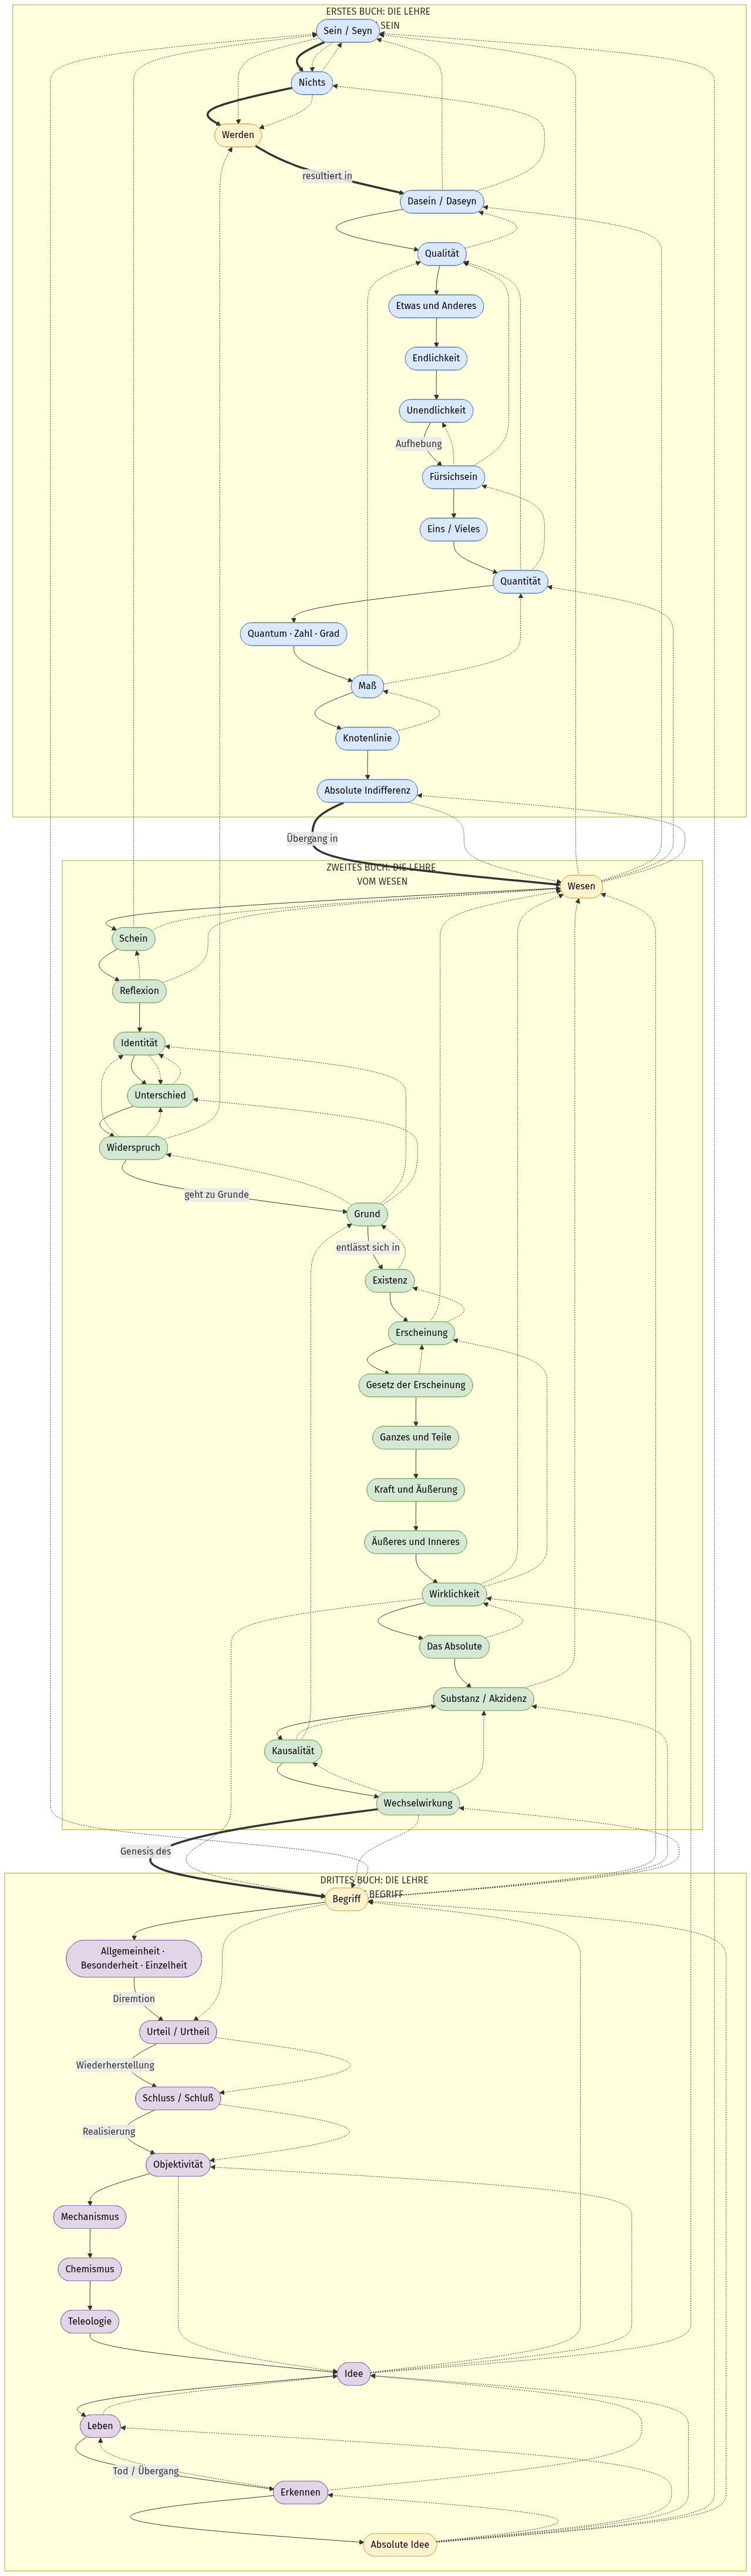
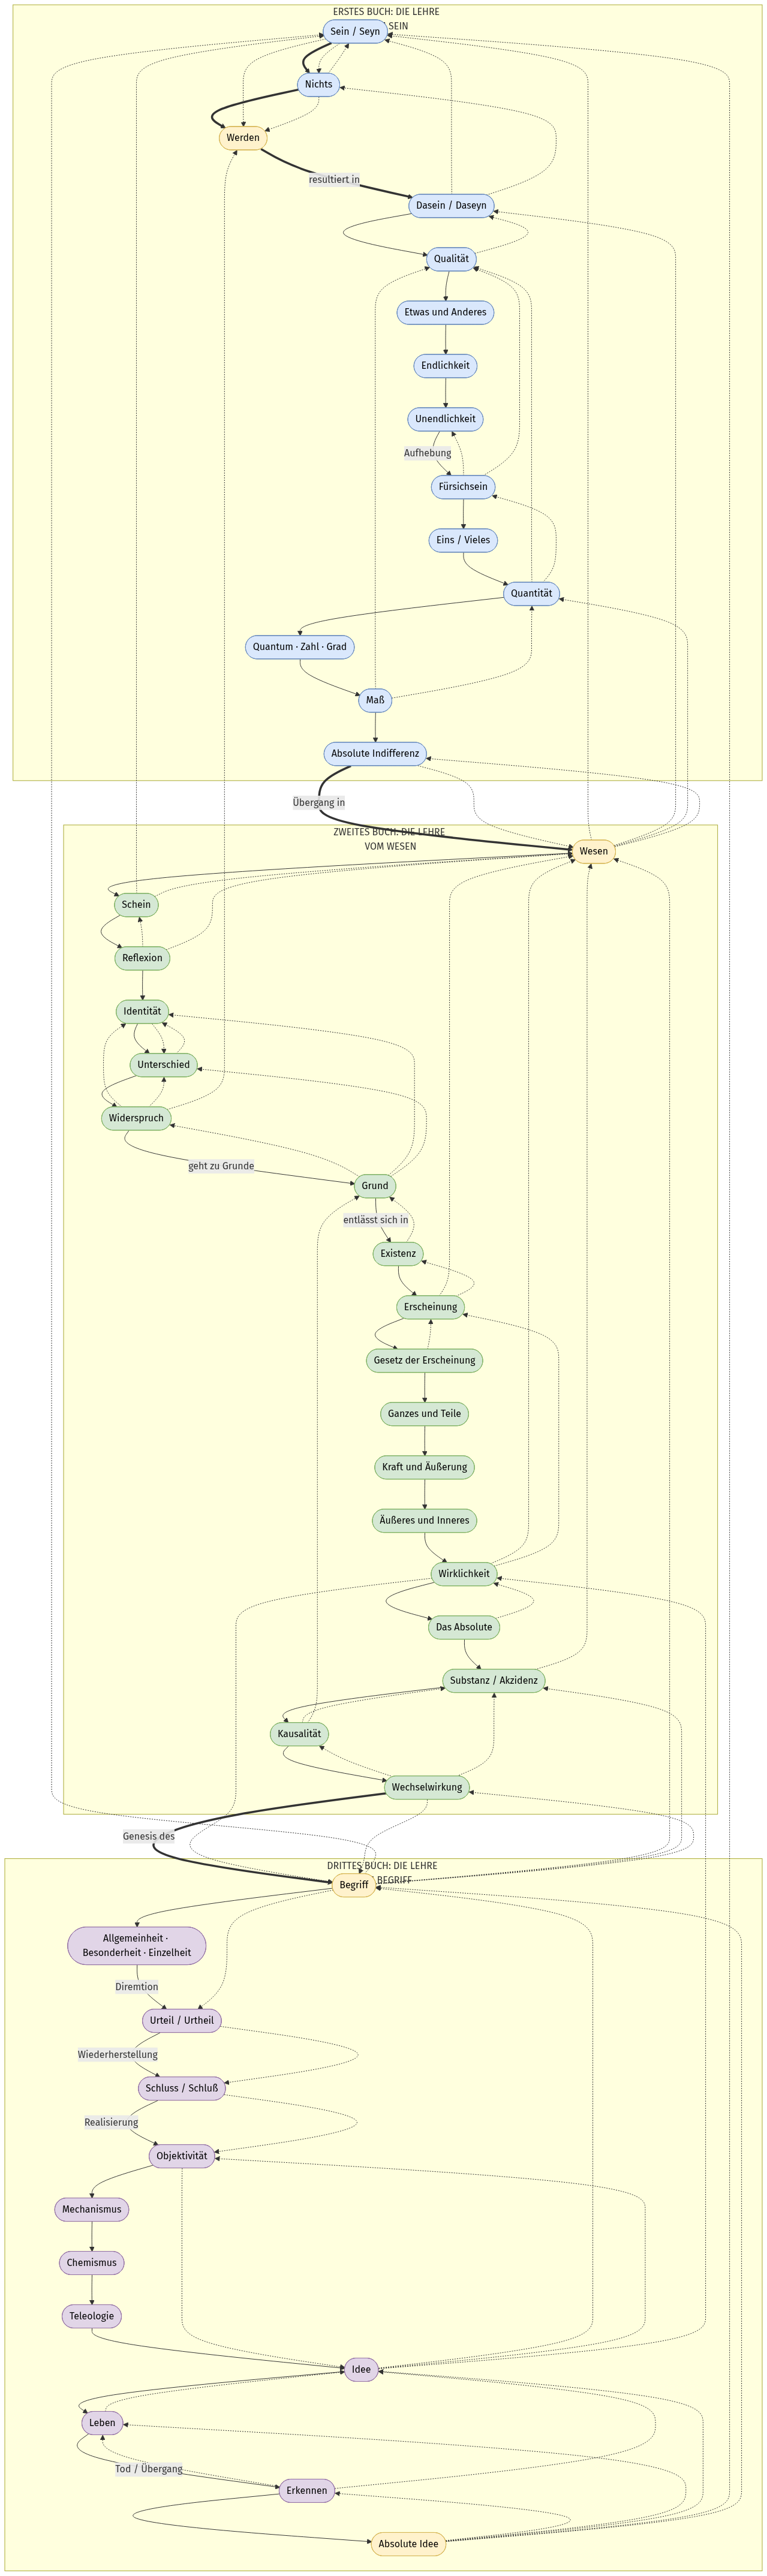
Korrektur: KNOTENLINIE eliminiert — ABSOLUTE INDIFFERENZ als eigenständiger Begriff, Knotenlinie/Maßloses in MASS integriert, Mermaid-Diagramm und PNG aktualisiert

diff --git a/data.js b/data.js
@@ -288,7 +288,7 @@ const hegelData = [
     "bookName": "Seinslogik",
     "position": "Dritter Abschnitt („Das Maß“).",
     "quote": "„Das Maß ist die qualitative Quantität; es ist das unmittelbare Qualitative der Quantität, die Einheit von Qualität und Quantität, in der die Quantität selbst qualitativ bestimmt ist.“",
-    "definition": "Das Maß ist die Wahrheit von Qualität und Quantität — die Quantität, die\nzugleich qualitativ bedeutsam ist. Jedes Ding hat ein Maß: innerhalb gewisser Grenzen kann die\nQuantität sich ändern, ohne die Qualität zu verändern; wird die Grenze überschritten, schlägt\ndie Qualität um (Knotenlinie).",
+    "definition": "Das Maß ist die Wahrheit von Qualität und Quantität — die Quantität, die\nzugleich qualitativ bedeutsam ist. Jedes Ding hat ein Maß: innerhalb gewisser Grenzen kann die\nQuantität sich ändern, ohne die Qualität zu verändern; wird die Grenze überschritten, schlägt\ndie Qualität um. Diese Umschlagspunkte bilden eine *Knotenlinie von Maßverhältnissen*\n(z.B. Wasser → Eis → Dampf). Das absolute Hinausgehen über das Maß ist das *Maßlose*,\nin dem das Maß zugrunde geht und der Übergang zum Wesen sich vorbereitet.",
     "crossRefs": [
       {
         "target": "Qualität / Quantität",
@@ -296,25 +296,25 @@ const hegelData = [
         "targetId": "s12"
       },
       {
+        "target": "Absolute Indifferenz",
+        "text": "Der letzte Umschlagspunkt vor dem Übergang ins Wesen.",
+        "targetId": "s13"
+      },
+      {
         "target": "Wesen",
         "text": "Das Maßlose und der Umschlag der Maße führen zum *Werden des Wesens* — über",
         "targetId": "w01"
-      },
-      {
-        "target": "Knotenlinie",
-        "text": "Die Reihe qualitativer Sprünge bei quantitativer Kontinuität.",
-        "targetId": "s13"
       }
     ]
   },
   {
     "id": "s13",
-    "name": "KNOTENLINIE / MASSLOSES / INDIFFERENZ",
+    "name": "ABSOLUTE INDIFFERENZ",
     "book": "seinslogik",
     "bookName": "Seinslogik",
-    "position": "Dritter Abschnitt, Zweites und Drittes Kapitel.",
-    "quote": "",
-    "definition": "Die *Knotenlinie* ist die Abfolge qualitativer Zustände, die durch rein\nquantitative Änderung umschlagen (z.B. Wasser → Eis → Dampf). Das *Maßlose* ist das absolute\nHinausgehen über das Maß. Die *absolute Indifferenz* ist das Worin, in dem alle Bestimmungen\ngleichgültig sind — sie ist der letzte Übergangspunkt zum Wesen.",
+    "position": "Drittes Kapitel des Maß-Abschnitts („Das Werden des Wesens“), A.",
+    "quote": "„Die Indifferenz aber, welche die absolute genannt werden kann, ist, die durch die Negation aller Bestimmtheiten des Seyns, der Qualität und Quantität und deren zunächst unmittelbaren Einheit, des Maaßes, sich mit sich zur einfachen Einheit zusammenschließt.“",
+    "definition": "Die absolute Indifferenz ist die letzte Bestimmung des Seins, ehe dieses zum\nWesen wird — sie erreicht es aber noch nicht. Sie ist die vollendete Gleichgültigkeit gegen\nalle Bestimmungen: Qualität und Quantität, und selbst deren Einheit (das Maß) sind in ihr\naufgehoben. Als reine, unterschiedslose Einheit ist sie der Umschlagspunkt, an dem das Sein\nin das Wesen *umschlägt*. Hegel diskutiert an dieser Stelle auch Spinozas Substanz, die als\nIndifferenz missverstanden werden kann.",
     "crossRefs": [
       {
         "target": "Wesen",
@@ -322,9 +322,19 @@ const hegelData = [
         "targetId": "w01"
       },
       {
+        "target": "Maß",
+        "text": "Die Aufhebung des Maßes führt zur absoluten Indifferenz.",
+        "targetId": "s12"
+      },
+      {
         "target": "Werden",
-        "text": "Wie das Werden aus dem Widerspruch von Sein und Nichts, so das Wesen aus dem",
+        "text": "Wie das Werden aus dem Widerspruch von Sein und Nichts, so geht das Wesen",
         "targetId": "s03"
+      },
+      {
+        "target": "Substanz",
+        "text": "Die absolute Indifferenz ähnelt der spinozistischen Substanz, bleibt aber",
+        "targetId": "w08"
       }
     ]
   },

diff --git a/Hegel-Begriffslexikon.md b/Hegel-Begriffslexikon.md
@@ -247,29 +247,40 @@ hinausweist.
 **Definition:** Das Maß ist die Wahrheit von Qualität und Quantität — die Quantität, die
 zugleich qualitativ bedeutsam ist. Jedes Ding hat ein Maß: innerhalb gewisser Grenzen kann die
 Quantität sich ändern, ohne die Qualität zu verändern; wird die Grenze überschritten, schlägt
-die Qualität um (Knotenlinie).
+die Qualität um. Diese Umschlagspunkte bilden eine *Knotenlinie von Maßverhältnissen*
+(z.B. Wasser → Eis → Dampf). Das absolute Hinausgehen über das Maß ist das *Maßlose*,
+in dem das Maß zugrunde geht und der Übergang zum Wesen sich vorbereitet.
 
 **Querverweise:**
 - → **Qualität / Quantität**: Das Maß ist deren synthetische Einheit.
+- → **Absolute Indifferenz**: Der letzte Umschlagspunkt vor dem Übergang ins Wesen.
 - → **Wesen**: Das Maßlose und der Umschlag der Maße führen zum *Werden des Wesens* — über
   die absolute Indifferenz.
-- → **Knotenlinie**: Die Reihe qualitativer Sprünge bei quantitativer Kontinuität.
 
 ---
 
-### KNOTENLINIE / MASSLOSES / INDIFFERENZ
+### ABSOLUTE INDIFFERENZ
 
-**Position:** Dritter Abschnitt, Zweites und Drittes Kapitel.
+> *„Die Indifferenz aber, welche die absolute genannt werden kann, ist, die durch die Negation
+> aller Bestimmtheiten des Seyns, der Qualität und Quantität und deren zunächst unmittelbaren
+> Einheit, des Maaßes, sich mit sich zur einfachen Einheit zusammenschließt.“*
 
-**Definition:** Die *Knotenlinie* ist die Abfolge qualitativer Zustände, die durch rein
-quantitative Änderung umschlagen (z.B. Wasser → Eis → Dampf). Das *Maßlose* ist das absolute
-Hinausgehen über das Maß. Die *absolute Indifferenz* ist das Worin, in dem alle Bestimmungen
-gleichgültig sind — sie ist der letzte Übergangspunkt zum Wesen.
+**Position:** Drittes Kapitel des Maß-Abschnitts („Das Werden des Wesens“), A.
+
+**Definition:** Die absolute Indifferenz ist die letzte Bestimmung des Seins, ehe dieses zum
+Wesen wird — sie erreicht es aber noch nicht. Sie ist die vollendete Gleichgültigkeit gegen
+alle Bestimmungen: Qualität und Quantität, und selbst deren Einheit (das Maß) sind in ihr
+aufgehoben. Als reine, unterschiedslose Einheit ist sie der Umschlagspunkt, an dem das Sein
+in das Wesen *umschlägt*. Hegel diskutiert an dieser Stelle auch Spinozas Substanz, die als
+Indifferenz missverstanden werden kann.
 
 **Querverweise:**
 - → **Wesen**: Die absolute Indifferenz ist der unmittelbare *Übergang in das Wesen*.
-- → **Werden**: Wie das Werden aus dem Widerspruch von Sein und Nichts, so das Wesen aus dem
-  Widerspruch von Qualität und Quantität.
+- → **Maß**: Die Aufhebung des Maßes führt zur absoluten Indifferenz.
+- → **Werden**: Wie das Werden aus dem Widerspruch von Sein und Nichts, so geht das Wesen
+  aus der Auflösung des Maßes in der absoluten Indifferenz hervor.
+- → **Substanz**: Die absolute Indifferenz ähnelt der spinozistischen Substanz, bleibt aber
+  in der Sphäre des Seins.
 
 ---
 
@@ -751,7 +762,8 @@ entlässt sich in die Natur.
 | **Idee** | Begriff, Objektivität, Leben, Erkennen, Absolute Idee |
 | **Identität** | Unterschied, Widerspruch, Grund |
 | **Kausalität** | Substanz, Wechselwirkung, Grund |
-| **Maß** | Qualität, Quantität, Wesen |
+| **Absolute Indifferenz** | Wesen, Maß, Werden, Substanz |
+| **Maß** | Qualität, Quantität, Wesen, Absolute Indifferenz |
 | **Nichts** | Sein, Werden, Dasein |
 | **Objektivität** | Begriff, Mechanismus, Chemismus, Teleologie, Idee |
 | **Qualität** | Dasein, Quantität, Maß |

diff --git a/Hegel-Querverweise.md b/Hegel-Querverweise.md
@@ -18,7 +18,6 @@ graph TD
         Quantitaet([Quantität])
         Quantum([Quantum · Zahl · Grad])
         Mass([Maß])
-        Knotenlinie([Knotenlinie])
         Indifferenz([Absolute Indifferenz])
     end
 
@@ -71,8 +70,7 @@ graph TD
     Eins --> Quantitaet
     Quantitaet --> Quantum
     Quantum --> Mass
-    Mass --> Knotenlinie
-    Knotenlinie --> Indifferenz
+    Mass --> Indifferenz
     Indifferenz ==>|Übergang in| Wesen
 
     %% ========== HAUPTGANG: Wesenslogik ==========
@@ -122,7 +120,6 @@ graph TD
     Quantitaet -.-> Fuersichsein
     Mass -.-> Qualitaet
     Mass -.-> Quantitaet
-    Knotenlinie -.-> Mass
     Indifferenz -.-> Wesen
 
     %% ========== QUERVERWEISE: Wesenslogik intern ==========
@@ -190,7 +187,7 @@ graph TD
     classDef begriffs fill:#e1d5e7,stroke:#9673a6,color:#000
     classDef uebergang fill:#fff2cc,stroke:#d6b656,color:#000
 
-    class Sein,Nichts,Werden,Dasein,Qualitaet,Etwas,Endlichkeit,Unendlichkeit,Fuersichsein,Eins,Quantitaet,Quantum,Mass,Knotenlinie,Indifferenz seins
+    class Sein,Nichts,Werden,Dasein,Qualitaet,Etwas,Endlichkeit,Unendlichkeit,Fuersichsein,Eins,Quantitaet,Quantum,Mass,Indifferenz seins
     class Wesen,Schein,Reflexion,Identitaet,Unterschied,Widerspruch,Grund,Existenz,Erscheinung,Gesetz,GanzesTeile,Kraft,AeuInneres,Wirklichkeit,Absolute,Substanz,Kausalitaet,Wechselwirkung wesens
     class Begriff,AllgBesEinz,Urteil,Schluss,Objektivitaet,Mechanismus,Chemismus,Teleologie,Idee,Leben,Erkennen,AbsoluteIdee begriffs
     class Werden,Wesen,Begriff,AbsoluteIdee uebergang